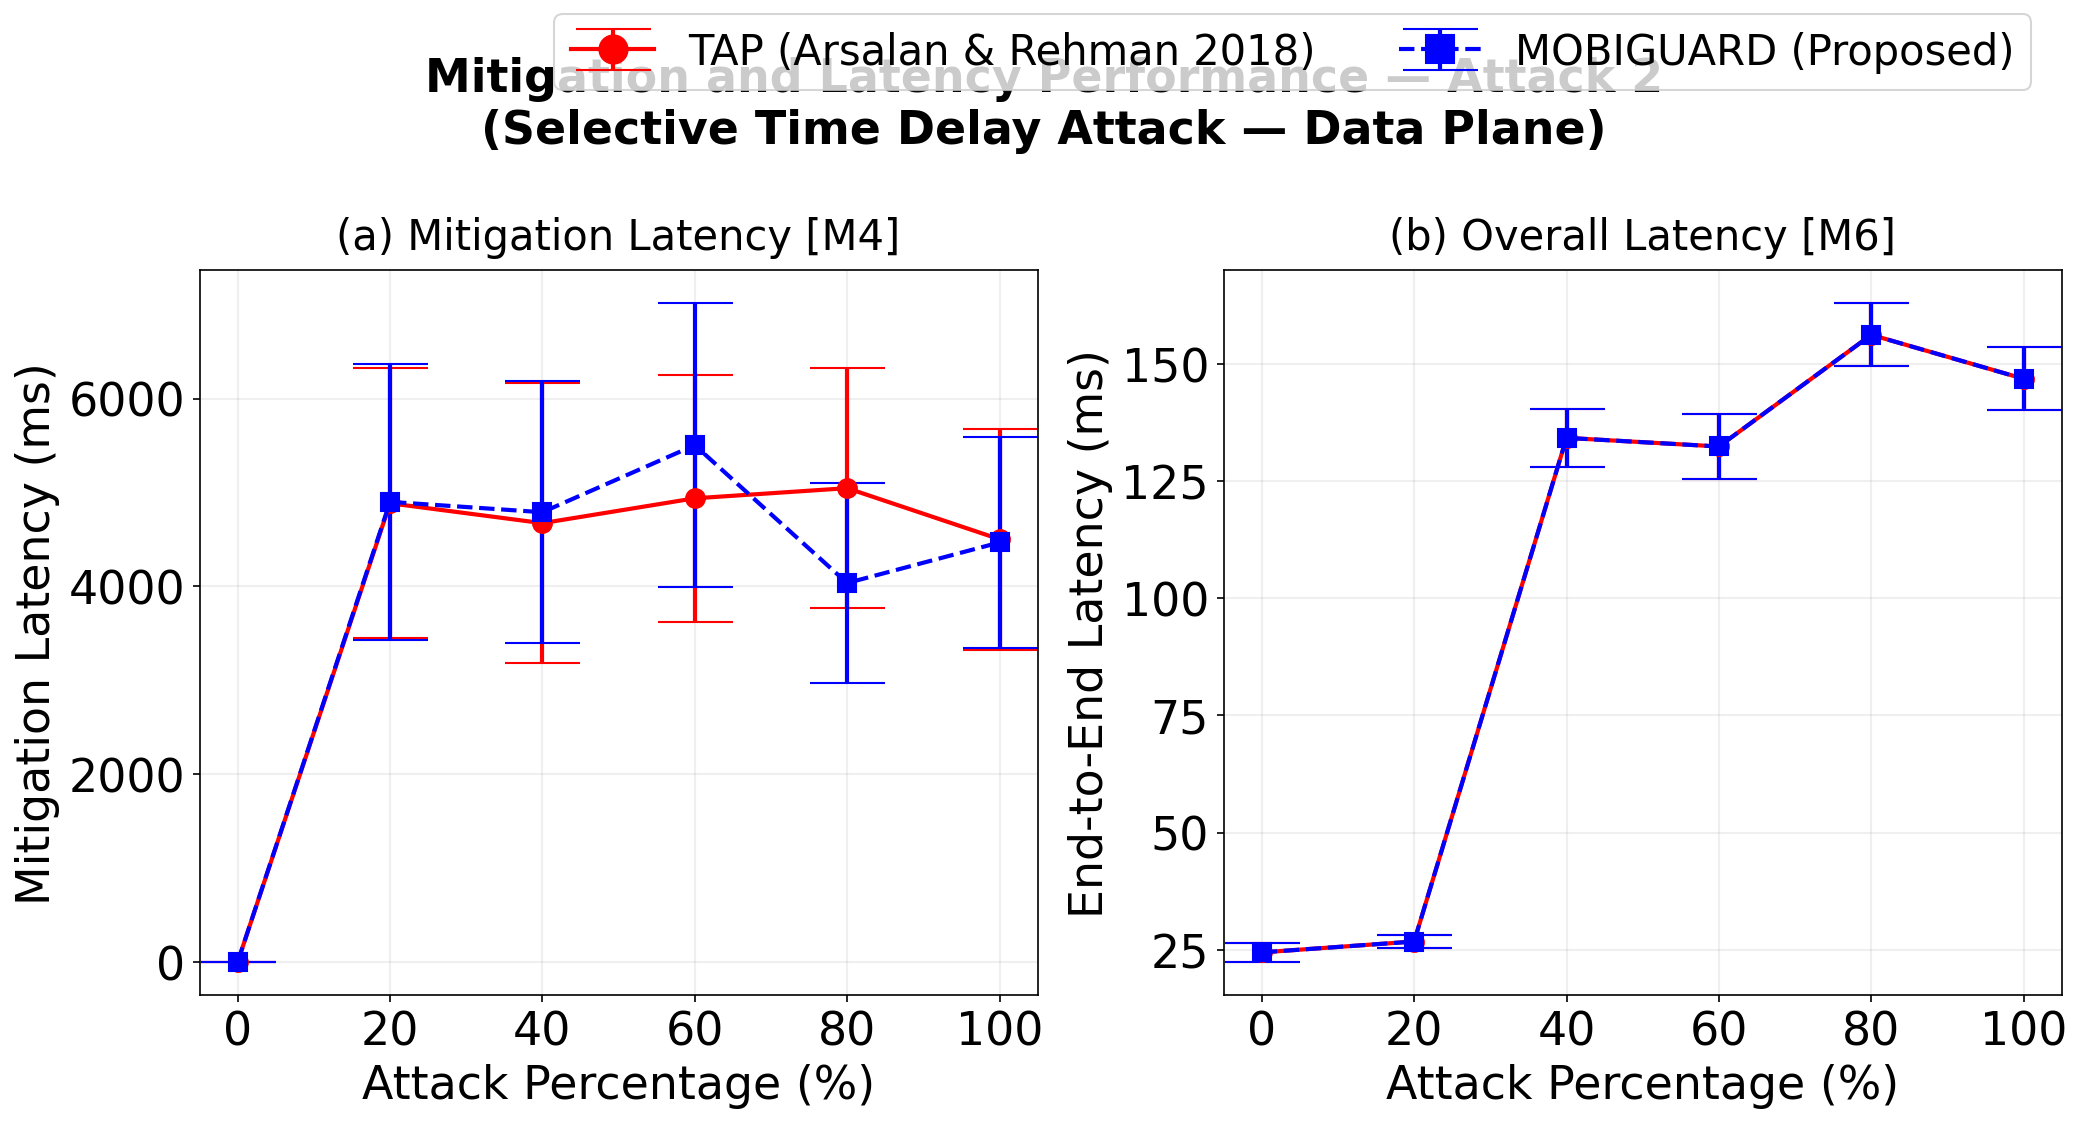
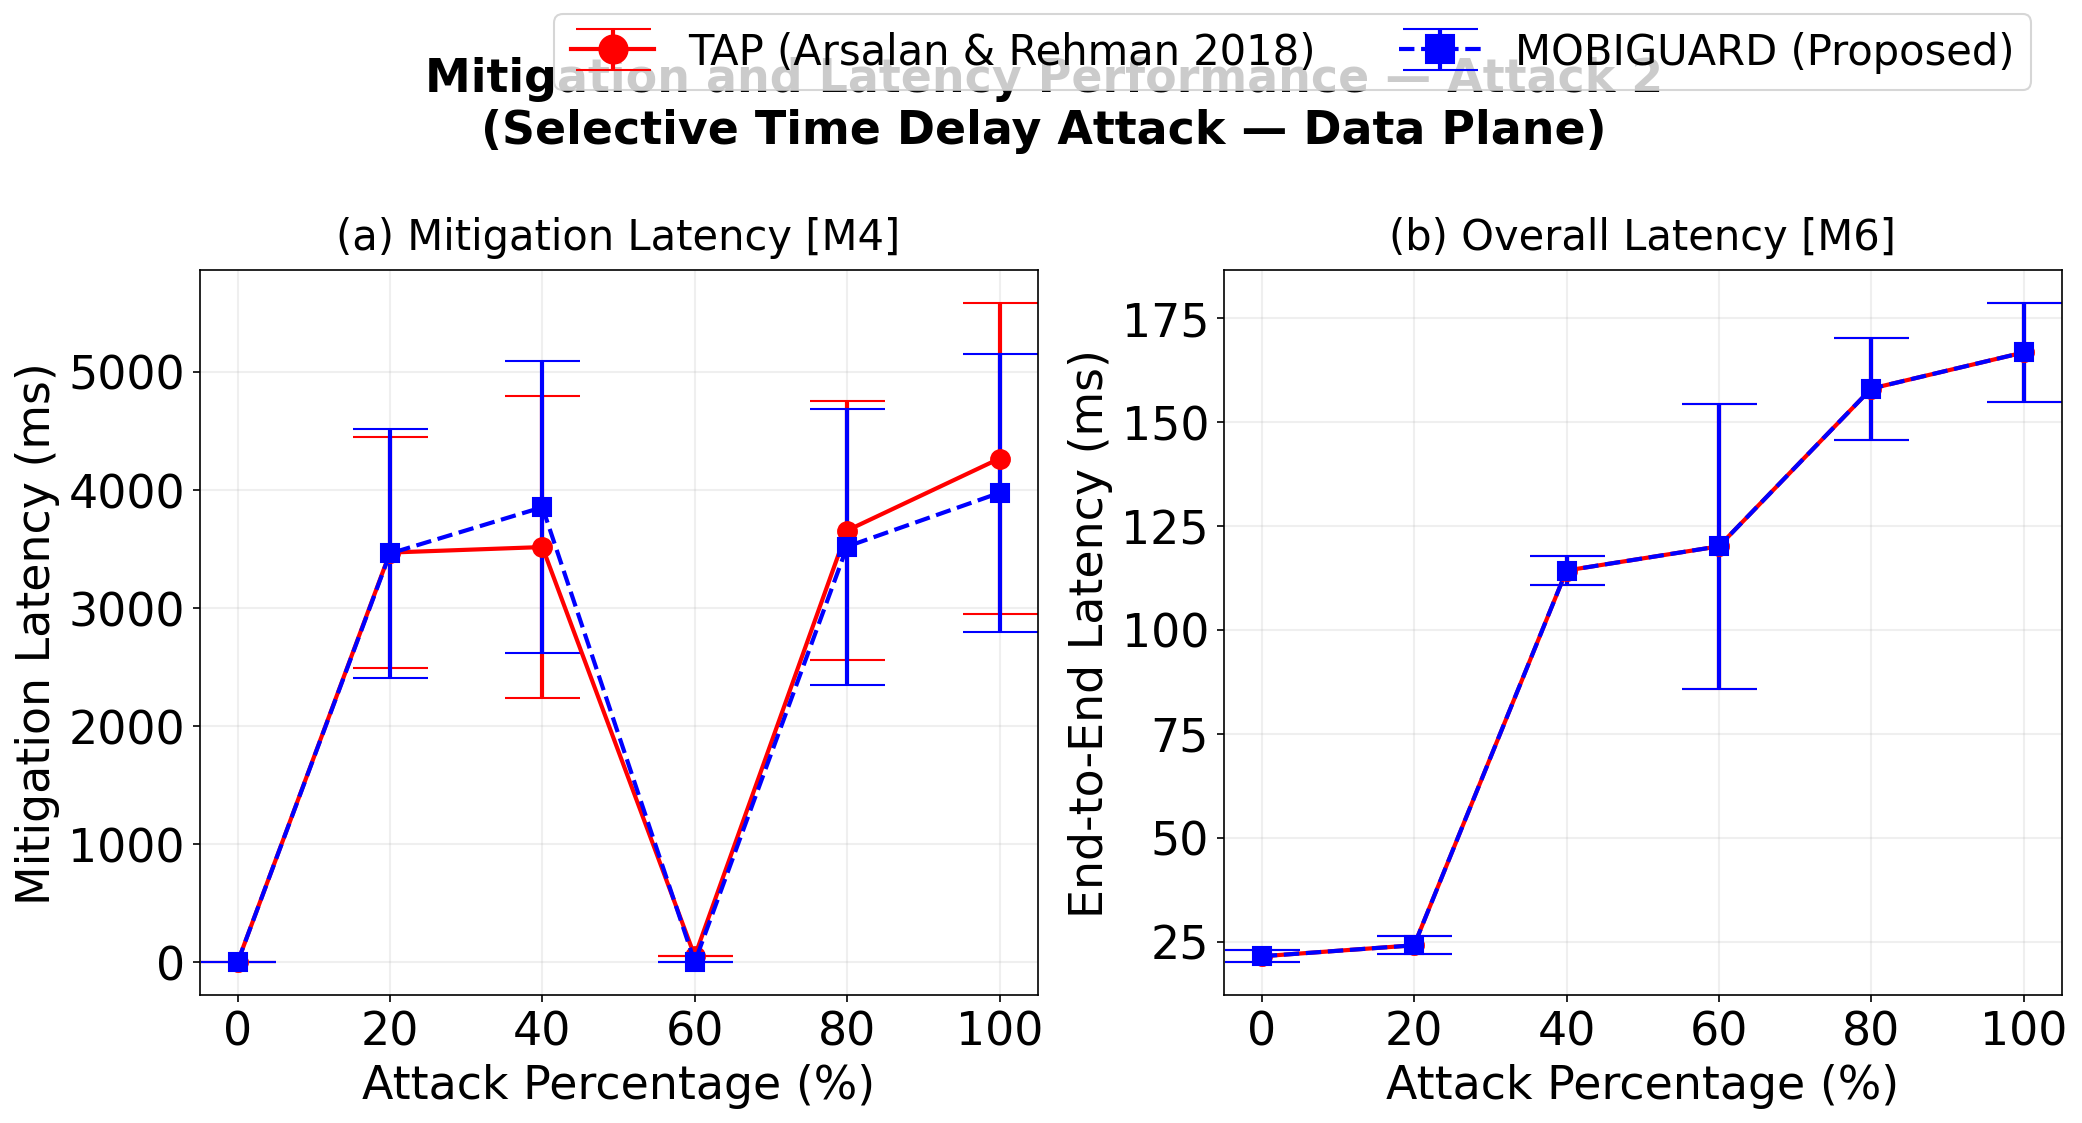
fix: bug fixes

diff --git a/scripts/plot_tap_results.py b/scripts/plot_tap_results.py
@@ -56,8 +56,6 @@ CSV column order (columns are 0-indexed):
 import argparse
 import numpy as np
 import matplotlib.pyplot as plt
-import matplotlib.ticker as ticker
-import csv
 import os
 import scipy.stats as stats
 
@@ -129,10 +127,10 @@ def mean_and_ci(values):
     n = len(values)
     if n == 0:
         return 0.0, 0.0
-    m   = np.mean(values)
-    s   = np.std(values, ddof=1)       # sample std (ddof=1 matches MATLAB std)
+    m = np.mean(values)
     if n == 1:
         return m, 0.0
+    s   = np.std(values, ddof=1)       # sample std (ddof=1 matches MATLAB std)
     t   = stats.t.ppf(1 - ALPHA / 2, df=n - 1)
     ci  = t * (s / np.sqrt(n))
     return m, ci
@@ -190,7 +188,7 @@ def plot_metric(ax, tap_data, mob_data, col, ylabel, title,
 
     # ── TAP line — red solid with circle markers (matches supervisor's p1 style)
     p1 = ax.errorbar(x, tap_means, yerr=tap_cis,
-                     fmt='-o',
+                     fmt='o',
                      color='red',
                      markerfacecolor='red',
                      markersize=9,
@@ -201,7 +199,7 @@ def plot_metric(ax, tap_data, mob_data, col, ylabel, title,
 
     # ── MOBIGUARD line — blue dashed with square markers
     p2 = ax.errorbar(x, mob_means, yerr=mob_cis,
-                     fmt='-s',
+                     fmt='s',
                      color='blue',
                      markerfacecolor='blue',
                      markersize=9,
